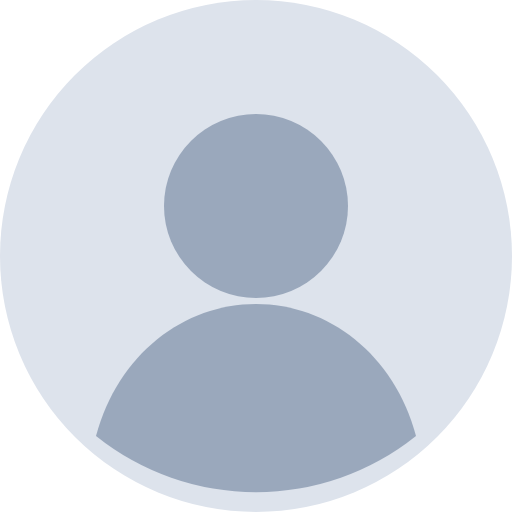
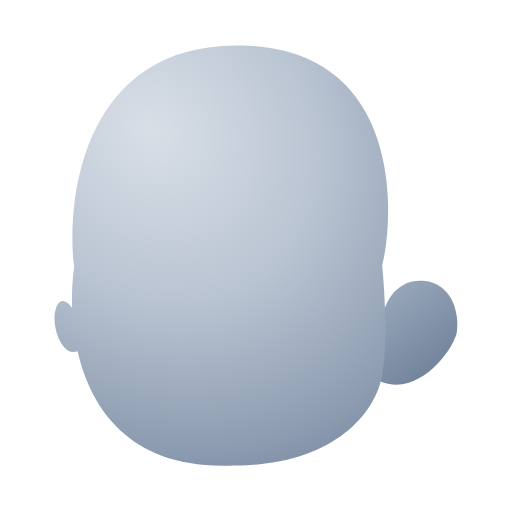
added mobile support

diff --git a/components/landing-hero.tsx b/components/landing-hero.tsx
@@ -63,7 +63,7 @@ export function LandingHero() {
 
   return (
     <section aria-label="YaleMoji" className={styles.stage} data-landing-stage="" ref={stageRef}>
-      <div className={styles.core} style={coreStyle(PLACEMENT.wordmark)}>
+      <div className={`${styles.core} ${styles.wordmarkSlot}`} style={coreStyle(PLACEMENT.wordmark)}>
         <div className={styles.physicsCore} data-physics-body="" data-mass-grams={1000000}>
           <Image
             alt="YaleMoji"
@@ -86,59 +86,60 @@ export function LandingHero() {
         </div>
       </div>
 
-      <DraggableSticker mass={8} placement={PLACEMENT.stickyNote}>
+      <DraggableSticker className={styles.noteSlot} mass={8} placement={PLACEMENT.stickyNote}>
         <Image
           alt=""
           className={styles.stickyNote}
           height={321}
           priority
-          sizes="20vw"
+          sizes="(max-width: 48rem) 44vw, 23vw"
           src="/assets/landing/sticky-note.png"
           width={321}
         />
       </DraggableSticker>
 
-      <DraggableSticker placement={PLACEMENT.avatarDarkHair}>
+      <DraggableSticker className={styles.darkHairSlot} placement={PLACEMENT.avatarDarkHair}>
         <Image
           alt=""
           className={styles.avatarImage}
           height={1080}
-          sizes="16vw"
+          sizes="(max-width: 48rem) 29vw, 16vw"
           src="/assets/landing/avatar-dark-hair.png"
           width={1080}
         />
       </DraggableSticker>
 
-      <DraggableSticker placement={PLACEMENT.avatarBoy}>
+      <DraggableSticker className={styles.boySlot} placement={PLACEMENT.avatarBoy}>
         <Image
           alt=""
           className={styles.avatarImage}
           height={1080}
-          sizes="16vw"
+          sizes="(max-width: 48rem) 34vw, 16vw"
           src="/assets/landing/avatar-boy.png"
           width={1080}
         />
       </DraggableSticker>
 
-      <DraggableSticker placement={PLACEMENT.avatarStarEyes}>
+      <DraggableSticker className={styles.starEyesSlot} placement={PLACEMENT.avatarStarEyes}>
         <Image
           alt=""
           className={styles.avatarImage}
           height={1080}
-          sizes="18vw"
+          sizes="(max-width: 48rem) 30vw, 18vw"
           src="/assets/landing/avatar-star-eyes.png"
           style={{ transform: "rotate(8.65deg)" }}
           width={1080}
         />
       </DraggableSticker>
 
-      <DraggableSticker mass={15} placement={PLACEMENT.star}>
+      <DraggableSticker className={styles.starSlot} mass={15} placement={PLACEMENT.star}>
         <div className={styles.star}>
           <Image alt="" className={styles.starImage} height={116} src="/assets/landing/star.svg" width={116} />
         </div>
       </DraggableSticker>
 
       <DraggableSticker
+        className={styles.soundSlot}
         ariaLabel={isPlaying ? "Pause Boola Boola" : "Play Boola Boola"}
         onTap={handleAirpodTap}
         placement={PLACEMENT.soundCluster}
@@ -163,9 +164,9 @@ export function LandingHero() {
         </div>
       </DraggableSticker>
 
-      <MedalTug onTug={() => setTugCount((count) => count + 1)} placement={PLACEMENT.medal} />
+      <MedalTug className={styles.medalSlot} onTug={() => setTugCount((count) => count + 1)} placement={PLACEMENT.medal} />
 
-      <div className={styles.core} style={coreStyle(PLACEMENT.cta)}>
+      <div className={`${styles.core} ${styles.ctaSlot}`} style={coreStyle(PLACEMENT.cta)}>
         <div className={styles.physicsCore} data-physics-body="" data-mass-grams={1000000}>
           <Link className={styles.cta} draggable={false} href="/editor">
             CREATE NOW
@@ -174,7 +175,7 @@ export function LandingHero() {
       </div>
 
       {tugCount > 0 && (
-        <DraggableSticker mass={2} placement={PLACEMENT.tugText}>
+        <DraggableSticker className={styles.tugSlot} mass={2} placement={PLACEMENT.tugText}>
           <p className={styles.tugText}>
             <strong>{tugCount}</strong> {tugCount === 1 ? "tug!" : "tugs!"}
           </p>

diff --git a/components/landing-hero.module.css b/components/landing-hero.module.css
@@ -85,6 +85,11 @@
   background: var(--accent-active);
 }
 
+.cta:focus-visible {
+  outline: var(--focus-width) solid var(--focus);
+  outline-offset: var(--focus-offset);
+}
+
 .tugText {
   display: flex;
   align-items: center;
@@ -217,4 +222,108 @@
 .physicsCore {
   width: 100%;
   height: 100%;
+}
+
+@media (max-width: 48rem) and (orientation: portrait) {
+  .stage {
+    min-height: max(38rem, 135vw);
+    background-size: 1.75rem 1.75rem;
+  }
+
+  /* Give the portrait board its own composition around the logo and action. */
+  .stage .wordmarkSlot {
+    left: 10%;
+    top: 33%;
+    width: 80%;
+    height: auto;
+    aspect-ratio: 465 / 127;
+  }
+
+  .stage .ctaSlot {
+    left: max(1.5rem, calc(50% - 10rem));
+    top: 51%;
+    width: calc(100% - 3rem);
+    max-width: 20rem;
+    height: 3.5rem;
+  }
+
+  .cta {
+    padding-inline: 1.5rem;
+    font-size: 1.125rem;
+  }
+
+  .stage .medalSlot {
+    left: -12%;
+    top: -5%;
+    width: min(54%, 16rem);
+    height: auto;
+    aspect-ratio: 1;
+  }
+
+  .stage .starSlot {
+    left: 45%;
+    top: 3%;
+    width: min(18%, 6rem);
+    height: auto;
+    aspect-ratio: 1;
+  }
+
+  .stage .starEyesSlot {
+    left: 61%;
+    top: 11%;
+    width: min(30%, 9rem);
+    height: auto;
+    aspect-ratio: 1;
+  }
+
+  .stage .soundSlot {
+    left: 45%;
+    top: 19%;
+    width: clamp(2.75rem, 12vw, 4rem);
+    height: clamp(2.75rem, 12vw, 4rem);
+  }
+
+  .stage .noteSlot {
+    left: 3%;
+    top: 66%;
+    width: min(44%, 13rem);
+    height: auto;
+    aspect-ratio: 1;
+  }
+
+  .stage .boySlot {
+    left: 58%;
+    top: 63%;
+    width: min(34%, 10rem);
+    height: auto;
+    aspect-ratio: 1;
+  }
+
+  .stage .darkHairSlot {
+    left: 49%;
+    top: auto;
+    bottom: 2%;
+    width: min(29%, 8.5rem);
+    height: auto;
+    aspect-ratio: 1;
+  }
+
+  .stage .tugSlot {
+    left: 36%;
+    top: 7%;
+    width: 25%;
+    height: 2.75rem;
+  }
+}
+
+@media (max-width: 58rem) and (orientation: landscape) {
+  .stage {
+    min-height: 22rem;
+  }
+
+  .stage .ctaSlot {
+    left: 35%;
+    width: 30%;
+    height: 3rem;
+  }
 }

diff --git a/components/medal-tug.tsx b/components/medal-tug.tsx
@@ -6,7 +6,7 @@ import styles from "./medal-tug.module.css";
 
 type Placement = { x: string; y: string; w: string; h: string; delay: string };
 
-export function MedalTug({ onTug, placement }: { onTug: () => void; placement: Placement }) {
+export function MedalTug({ onTug, placement, className }: { onTug: () => void; placement: Placement; className?: string }) {
   const ref = useRef<HTMLButtonElement | null>(null);
   const onTugRef = useRef(onTug);
   onTugRef.current = onTug;
@@ -24,7 +24,7 @@ export function MedalTug({ onTug, placement }: { onTug: () => void; placement: P
   } as CSSProperties;
 
   return (
-    <div aria-hidden="true" className={styles.slot} style={slotStyle}>
+    <div aria-hidden="true" className={[styles.slot, className].filter(Boolean).join(" ")} style={slotStyle}>
       <button className={styles.medal} ref={ref} type="button" tabIndex={-1}
         data-physics-body="" data-mass-grams={120} data-draggable="true" data-tether="medal">
         <Image alt="" className={styles.image} draggable={false} fill priority sizes="(max-width: 48rem) 220px, 472px" src="/assets/landing/medal.png" />

diff --git a/next.config.js b/next.config.js
@@ -2,6 +2,16 @@
 const nextConfig = {
   output: "standalone",
   serverExternalPackages: ["@napi-rs/canvas", "@google-cloud/storage"],
+  async headers() {
+    return [
+      {
+        source: "/assets/default-avatar.png",
+        headers: [
+          { key: "Cache-Control", value: "public, max-age=31536000, immutable" }
+        ]
+      }
+    ];
+  },
   // lib/avatar-render.ts reads layer SVGs from public/yalemoji at runtime using
   // a dynamically-computed path, which Next's automatic file tracing can't
   // detect. Without this, serverless deploys (e.g. Vercel) can drop those

diff --git a/README.md b/README.md
@@ -96,6 +96,17 @@ Approved Yale apps can resolve a NetID (the same NetID Yalies/CAS gives us at lo
 
 Call the JSON lookup API from your app's server, then use the returned `png_url` or `svg_url` as the browser's image source. These URLs contain an opaque ID and a revision number rather than a NetID. If the API reports no avatar, display `/assets/default-avatar.png` or `.svg`.
 
+The default PNG is public (no API key), transparent, and 512×512. It is served
+with `Cache-Control: public, max-age=31536000, immutable` so browsers and shared
+caches can reuse it for one year. Use it directly from any app:
+
+```html
+<img src="https://www.yalemoji.com/assets/default-avatar.png?v=1" width="512" height="512" alt="Default Yalemoji" />
+```
+
+If the default artwork changes, increment the `v` query parameter in consuming
+apps to give the new image a fresh cache URL.
+
 `GET /avatar/{netid}.svg` or `/avatar/{netid}.png` is also available as a redirect for app servers, with `Authorization: Bearer <key>` required. It shares the JSON APIs' per-key rate limit. It cannot be used directly in an `<img>` tag because image tags cannot send this header; never put API keys in URLs or browser code.
 
 Authenticated image lookups redirect to the current asset, or to a default silhouette for a missing avatar or invalid NetID. Redirects use `Cache-Control: private, max-age=300`. Infrastructure failures return `503 server_error` with `Cache-Control: no-store` and no redirect, so an outage cannot cache a silhouette in place of an existing avatar. Authentication and rate-limit errors are also uncached. The background isn't exposed through this redirect; use `background_url` from the JSON APIs.
